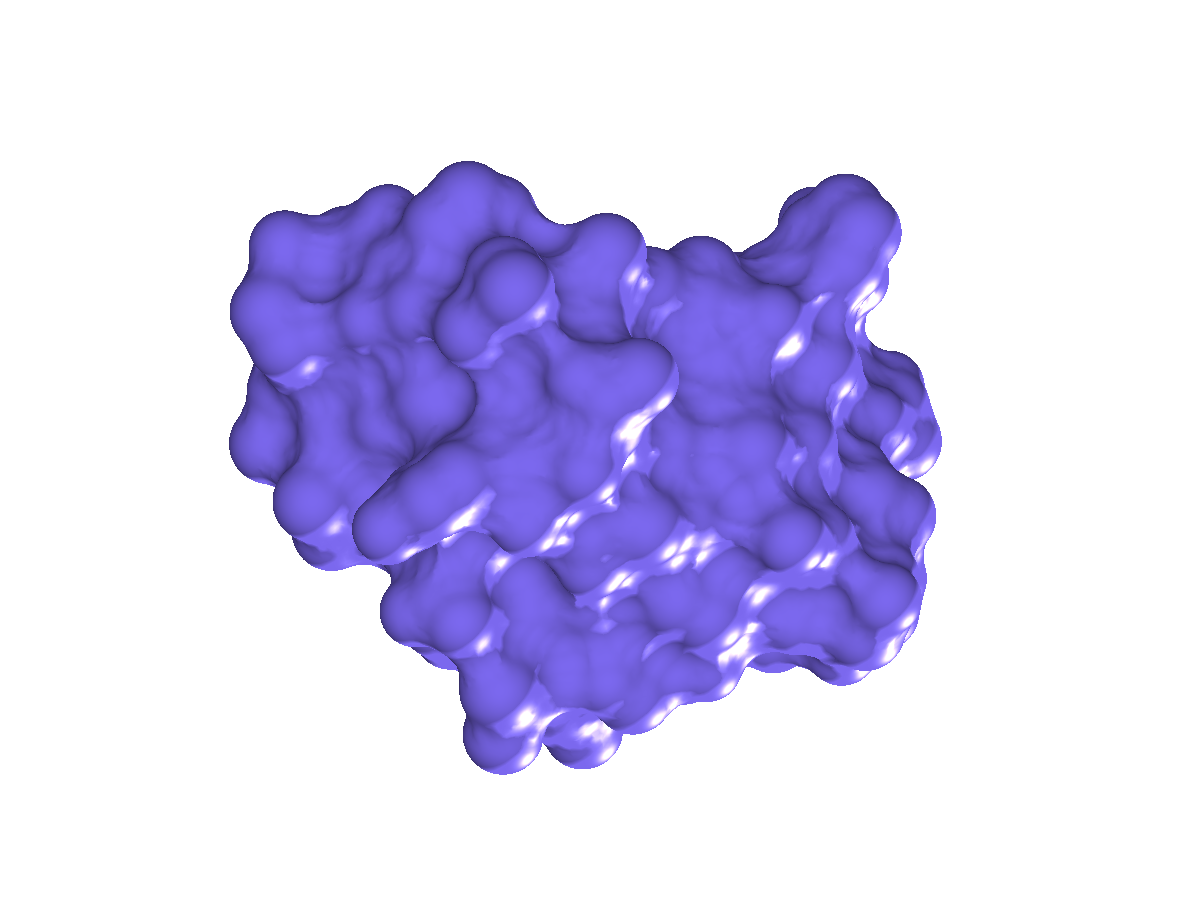
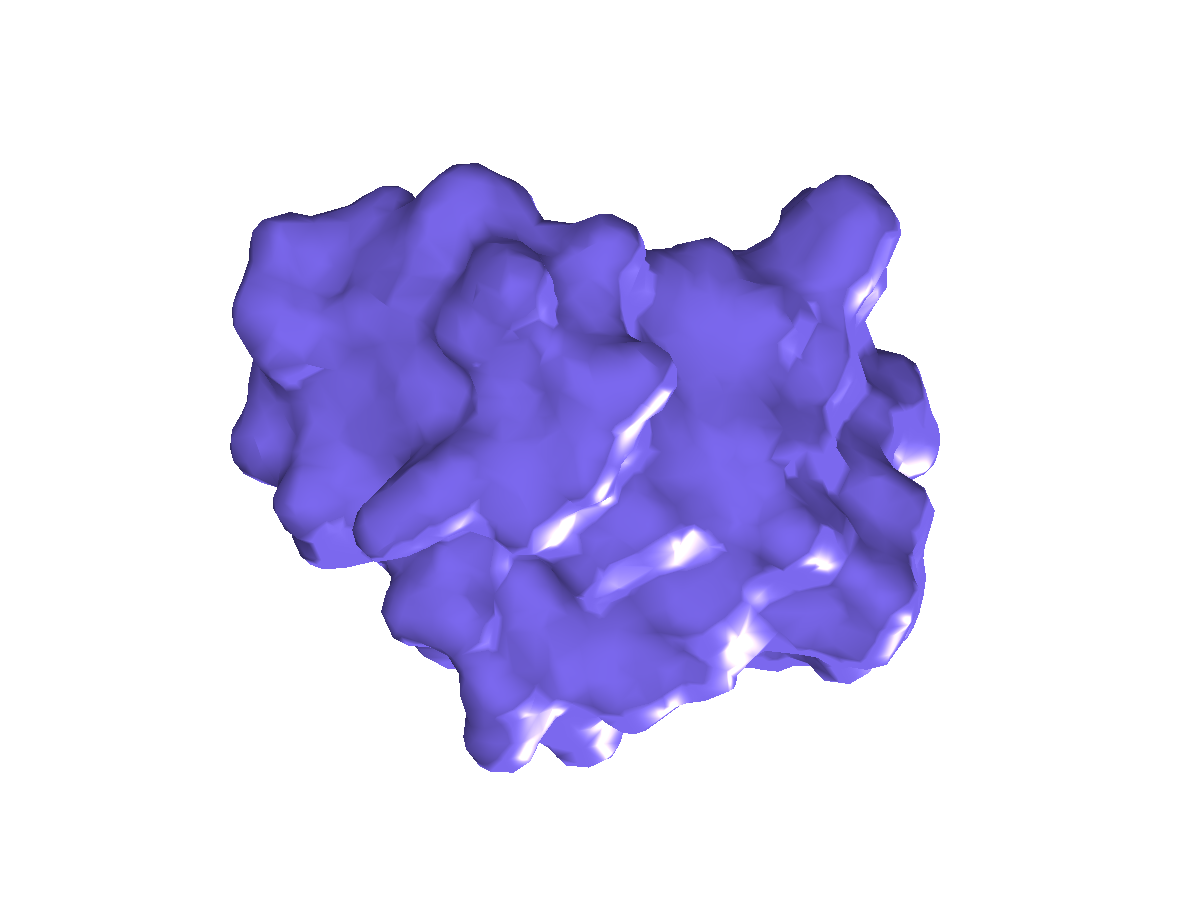
Match surface sampling scale and reduce rendering cost

diff --git a/tests/test_real.py b/tests/test_real.py
@@ -183,3 +183,26 @@ def test_publication_background_uses_python_scalars_and_restores(cmd):
     np.testing.assert_allclose(cmd.get_color_tuple(cmd.get("bg_rgb")), [1, 1, 1])
     chimerax_style("reset", _self=cmd)
     assert cmd.get_setting_tuple("bg_rgb") == before
+
+
+@pytest.mark.parametrize(
+    "quality, spacing", [("high", 0.5), ("medium", 0.75), ("low", 1.0)]
+)
+def test_surface_sampling_is_scoped_and_restored(cmd, quality, spacing):
+    load(cmd, "surface-mesh")
+    before = snapshot(cmd)
+    original = cmd.get_setting_float("surface_best")
+    chimerax_style("surface-mesh", quality=quality, quiet=1, _self=cmd)
+    obj = next(iter(storage(cmd)["views"]["chimerax"]["copies"]))
+    native_quality = cmd.get_setting_int("surface_quality", obj)
+    actual = cmd.get_setting_float(
+        "surface_normal" if native_quality == 0 else "surface_best", obj
+    )
+    if native_quality == 2:
+        actual /= 2
+    assert actual == pytest.approx(spacing)
+    assert cmd.get_setting_float("surface_best") == original
+    chimerax_style("reset", _self=cmd)
+    after = snapshot(cmd)
+    assert before[0] == after[0]
+    np.testing.assert_array_equal(before[1], after[1])

diff --git a/src/chimerax_style_in_pymol/render.py b/src/chimerax_style_in_pymol/render.py
@@ -91,7 +91,12 @@ def molecular(
     elif style in GROUPS["Cartoons"]:
         custom = "cartoon"
     elif style.startswith("surface") or style == "ghostly-white":
-        cmd.set("surface_quality", 2 if quality == "high" else 1, obj)
+        # PyMOL quality 2 halves surface_best; match the reference 0.5 A
+        # sampling scale instead of silently requesting a 0.125 A mesh.
+        spacing = p["grid_spacing"] * {"high": 1, "medium": 1.5, "low": 2}[quality]
+        cmd.set("surface_quality", {"high": 2, "medium": 1, "low": 0}[quality], obj)
+        cmd.set("surface_best", spacing * (2 if quality == "high" else 1), obj)
+        cmd.set("surface_normal", spacing, obj)
         cmd.set("solvent_radius", p["probe_radius"], obj)
         cmd.set("surface_solvent", 0, obj)
         cmd.set(

diff --git a/docs/ja/pymol_chimerax.md b/docs/ja/pymol_chimerax.md
@@ -138,6 +138,10 @@ importだけではPyMOLを起動せず、設定も変えません。`__init_plug
 核酸形状・mapの準備負荷を減らします。三角形の順序、法線、色、透明度のグループは
 維持し、すべてのstateを準備してから管理表示を置き換えます。
 
+分子表面にも `params.grid_spacing`（既定0.5 Å）を適用し、[本家のsurface定義](https://github.com/RBVI/ChimeraX/blob/develop/src/bundles/surface/src/surfacecmds.py)の標本化スケールへ合わせました。high/medium/lowはこの間隔の1/1.5/2倍です。PyMOLの点間隔とChimeraXの格子間隔は異なる三角分割アルゴリズムの値であり、表面の完全一致ではありません。probe半径・分子色・照明は維持します。以前のhighは0.125 Å相当の過密な分割だったため、同じ密度が必要なら `params={"grid_spacing":0.125}` を指定してください。設定は管理用コピーだけに適用します。
+
+1GGG・3200×1800の完了したマウス回転はsurface-mesh 13.2→122.6 FPS、surface-atomic 112.4→615.2 FPS、ghostly-white 103.4→450.3 FPSでした。surface-meshの最初のrayは640×480・4 threadsで、標準表面の生成を含め13.64→9.56秒でした。表面の初回生成には負荷が残り、以降の描画は生成済みデータを使います。
+
 科学的な入力契約、全表示形式、復元、session再読込、PNG出力を実際のPyMOLで検証します。
 参照元・ライセンスは[英語版](../pymol_chimerax.md#reference-and-verification)と
 [NOTICE](../../NOTICE)に記載しています。

diff --git a/docs/pymol_chimerax.md b/docs/pymol_chimerax.md
@@ -175,6 +175,22 @@ reduces preparation overhead for large cartoons, nucleotide shapes, and maps;
 triangle order, normals, colors, and opacity groups are preserved. All states
 are still prepared before replacing a managed view.
 
+Molecular surfaces now use `params.grid_spacing` (default 0.5 Å), matching the
+sampling scale in ChimeraX's [surface command source](https://github.com/RBVI/ChimeraX/blob/develop/src/bundles/surface/src/surfacecmds.py).
+High/medium/low quality uses 1/1.5/2 times this spacing. PyMOL point spacing and
+ChimeraX grid spacing describe different triangulation algorithms; this is not
+an exact surface match. Probe radius, source colors, and material lighting are
+retained. The previous high setting silently used 0.125 Å; request
+`params={"grid_spacing":0.125}` when that extra density is needed. All settings
+are applied to managed copies only. This makes mesh lines visible at the
+reference scale instead of covering the surface with excessive triangulation.
+
+In the 1GGG 3200 x 1800 completed-drag benchmark, surface-mesh improved from
+13.2 to 122.6 FPS; surface-atomic from 112.4 to 615.2; ghostly-white from 103.4
+to 450.3. First ray export of surface-mesh at 640 x 480 with four threads,
+including native surface preparation, improved from 13.64 to 9.56 s. Native
+surface generation still has an initial cost; subsequent draws reuse it.
+
 ## Reference and verification
 
 The behavior and numeric defaults were checked against the official ChimeraX
